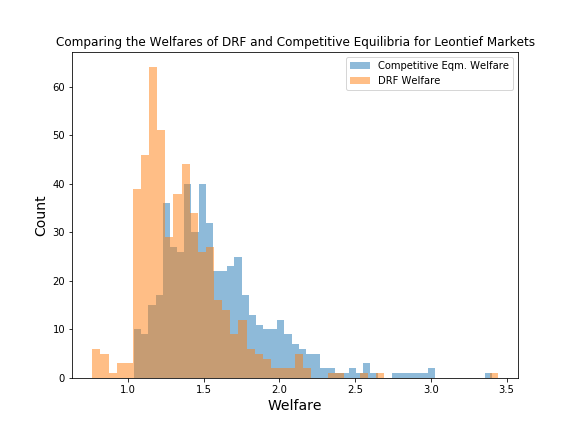
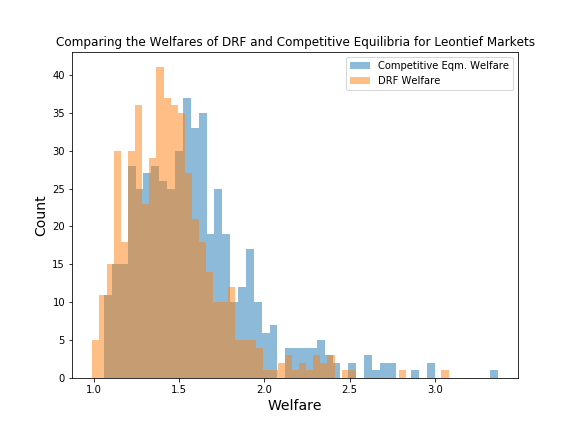
deni pushes

diff --git a/drf.py b/drf.py
@@ -110,32 +110,36 @@ def is_not_ir(allocation, weights, valuations, rho):
 def run_drf(num_goods, num_agents, valuations, rho, supply, weights, prices, epsilon = 0.01):
     allocation = np.zeros((num_agents, num_goods))
     demand = np.zeros(num_goods)
-
+    is_saturated = {good:False for good in range(num_goods)}
     t = 0
+
     while (np.sum(np.abs(supply - demand)) > 0.005 and t < 2000):
         t += 1
         demand = np.sum(allocation, 0)
-        prices = 1/(supply)
-        
-        for good in range(num_goods):
-            if (supply[good] <= demand[good]):
-                prices[good] = np.inf
-        
-        for agent in range(num_agents):
-            
-            hiksian_demand = np.nan_to_num(get_ces_hicksian(valuations[agent,:], prices, 1 , rho))
-            # expenditure = np.nan_to_num(get_ces_expend(valuations[agent,:], prices, 1 , rho))
-            dominant_share = np.max(hiksian_demand/supply)
-            demand_agent = epsilon*(np.nan_to_num(weights[agent]/dominant_share))*hiksian_demand
-            allocation[agent,:] += ((demand + demand_agent) < supply)*demand_agent
-            
-            # print(hiksian_demand)
-            # if (agent == 0 and not (iter % 10)):
-            #     print("-----------------------------------")
-            #     print(f"Expenditure :{expenditure}")
-            #     print(f"Hicksian demand :{hiksian_demand}")
-            #     print(f"Increase in demand: {(weights[agent]/expenditure)*hiksian_demand}")
 
+        for good in range(num_goods):
+            if (supply[good] <= demand[good] and not is_saturated[good]):
+                prices = 1/(supply-demand)
+                is_saturated[good] = True
+                # print(good)
+
+            if(supply[good] <= demand[good]):
+                prices[good] = np.inf
+ 
+        for agent in range(num_agents):
+            hiksian_demand = np.nan_to_num(get_ces_hicksian(valuations[agent,:], prices, 1 , rho))
+            dominant_share = 0
+            for good in range(num_goods):
+                share = hiksian_demand[good]*prices[good]
+                if (not is_saturated[good]) and (share > dominant_share):
+                    dominant_share = share
+            demand_agent = epsilon*(np.nan_to_num(weights[agent]/dominant_share))*hiksian_demand
+            allocation[agent,:] += ((demand + demand_agent)<supply)*demand_agent
+    
+    demand = np.sum(allocation, 0)
+    if ((demand >= 1.1).any()):
+        print(demand)
+    assert (demand <= 1.1).all() 
     return allocation
 
 
@@ -150,11 +154,11 @@ num_agents = 3
 rho = 0.5
 epsilon = 0.001
 supply = np.array([1, 1, 1, 1, 1])
-weights = np.array([1/4, 1/4, 1/2])
+weights = np.array([1/3, 1/3, 1/3])
 valuations = np.random.rand(num_agents, num_goods)
 
 # Test
-X = run_drf(num_goods, num_agents, valuations, rho, supply, weights, epsilon = 0.01, prices = 1/supply)
+X = run_drf(num_goods, num_agents, valuations, rho, supply, weights, epsilon = 0.005, prices = 1/supply)
 print(np.sum(X, axis = 0))
 
 # %%
@@ -176,7 +180,7 @@ for i in range(500):
     
     # Solve for market prices and allocations for desired utility function structure.
     alloc_fm, p = market.solveMarket("ces", printResults=False)
-    alloc_drf = run_drf(num_goods, num_agents, valuations, rho, supply, weights, epsilon = 0.01, prices = 1/supply)    
+    alloc_drf = run_drf(num_goods, num_agents, valuations, rho, supply, weights, epsilon = 0.005, prices = 1/supply)    
     
     ce_dominates += pareto_dominates(alloc_fm, alloc_drf, valuations, rho)
     drf_dominates += pareto_dominates(alloc_drf, alloc_fm, valuations, rho)
@@ -195,7 +199,6 @@ plt.ylabel("Count", size=14)
 plt.title("Comparing the Welfares of DRF and Competitive Equilibria")
 plt.legend(loc='upper right')
 
-plt.savefig('substitutes.png')
 #%%
 # Check for IR being respected
 
@@ -206,7 +209,7 @@ for i in range(1000):
         print(f"--- Experiment {i} ---\n")
     
     valuation = np.random.rand(num_agents,num_goods)
-    alloc = run_drf(num_goods, num_agents, valuation, rho, supply, weights, epsilon = 1, prices = 1/supply)
+    alloc = run_drf(num_goods, num_agents, valuation, rho, supply, weights, epsilon = 0.005, prices = 1/supply)
     alloc_is_not_ir = is_not_ir(alloc, weights, valuation, rho)
     if (alloc_is_not_ir):
         print(np.sum(alloc, axis = 0))
@@ -222,13 +225,13 @@ violates_ic = 0
 for model in range(100):
     print(f"--- Model {model}---\n")
     valuation = np.random.rand(num_agents, num_goods)
-    alloc1 = run_drf(num_goods, num_agents, valuation, rho, supply, weights, epsilon = 1, prices = 1/supply)
+    alloc1 = run_drf(num_goods, num_agents, valuation, rho, supply, weights, epsilon = 0.005, prices = 1/supply)
     misreport = np.copy(valuation)
     for experiment in range(1000):
         if(not (experiment % 50)):
             print(f"--- Experiment {experiment}---\n")
         misreport[0,:] = np.random.rand(num_goods)
-        alloc2 = run_drf(num_goods, num_agents, misreport, rho, supply, weights, epsilon = 1, prices = 1/supply)
+        alloc2 = run_drf(num_goods, num_agents, misreport, rho, supply, weights, epsilon = 0.005, prices = 1/supply)
         is_not_ic = (get_ces_utility(alloc2[0,:], valuation[0,:], rho) > get_ces_utility(alloc1[0,:], valuation[0,:], rho))
         if(is_not_ic):
             violates_ic += is_not_ic
@@ -312,25 +315,17 @@ def run_drf(num_goods, num_agents, valuations, rho, supply, weights, prices, eps
     while (np.sum(np.abs(supply - demand)) > 0.005 and t < 1000):
         t += 1
         demand = np.sum(allocation, 0)
-        prices = 1/(supply)
-        # print(iter)
-        # print(prices)
-        # print(demand)
+        prices = 1/(supply-demand)
+
         for good in range(num_goods):
             if (supply[good] <= demand[good]):
                 prices[good] = np.inf
         
         for agent in range(num_agents):
             hiksian_demand = np.nan_to_num(get_leontief_hicksian(valuations[agent,:], prices, 1 ))
-            expenditure =  np.max(supply*hiksian_demand)
+            expenditure =  np.sum(supply*hiksian_demand)
             demand_agent = (epsilon)*(np.nan_to_num(weights[agent]/expenditure))*hiksian_demand
             allocation[agent,:] += ((demand+demand_agent) < supply)*demand_agent
-
-            # if (agent == 0 and not (iter % 10)):
-            #     print("-----------------------------------")
-            #     print(f"Expenditure :{expenditure}")
-            #     print(f"Hicksian demand :{hiksian_demand}")
-            #     print(f"Increase in demand: {(weights[agent]/expenditure)*hiksian_demand}")
             demand = np.sum(allocation, 0)
     return allocation
 
